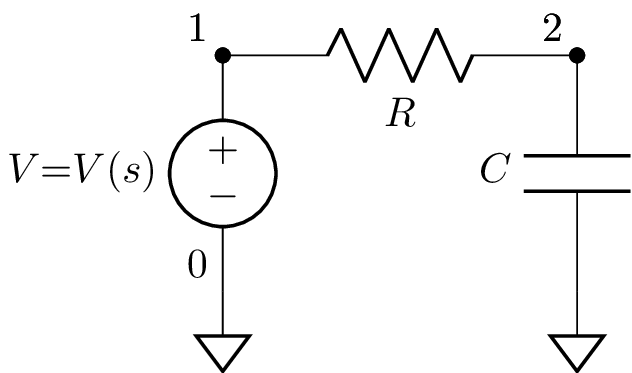
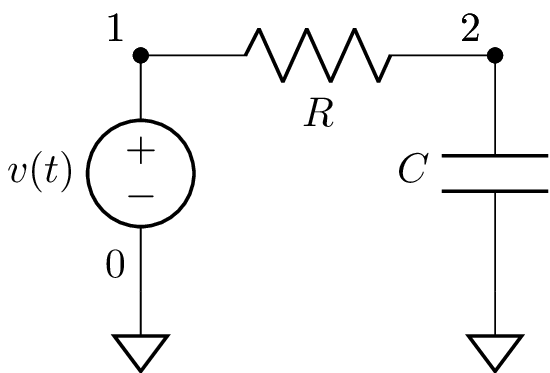
Tweak schematic docs

diff --git a/doc/schematics.rst b/doc/schematics.rst
@@ -10,43 +10,46 @@ Introduction
 
 High quality schematics can be generated from a netlist using
 Circuitikz for LaTeX diagrams.  This is much easier than writing
-Circuitikz commands directly in LaTeX.
+Circuitikz commands directly in LaTeX.  For the fastest way to
+generate a schematic, see :ref:`schtex`.
 
 A semi-automatic component placement is used with hints required to
 designate component orientation and explicit wires to link nodes of
 the same potential but with different coordinates.
 
 Here's an example:
-   >>> from lcapy import Circuit
+
    >>> cct = Circuit("""
-   ... V 1 0 {V(s)}; down
-   ... R 1 2; right
-   ... C 2 _0_2; down
-   ... W 0 _0_2; right""")
+   ... V 1 0 {v(t)}; down
+   ... R 1 2; right=2, i=i(t)
+   ... C 2 0_2; down, v=v_C(t)
+   ... W 0 0_2; right
+   ... ; draw_nodes=connections, label_ids=false, label_nodes=none""")
    >>> cct.draw()
 
 Note, the orientation hints are appended to the netlist strings with a
 semicolon delimiter.  The drawing direction is with respect to the
-first node.  The component W is a wire.  Node names starting with an underscore are not drawn.
+first node.  The component W is a wire.  Node names starting with an underscore are not shown.
 
 The image generated by this netlist is:
 
 .. image:: examples/schematics/schematic.png
-   :width: 4cm
+   :width: 6cm
 
 Here's an example with implicit ground connections added automatically:
-   >>> from lcapy import Circuit
+
    >>> cct = Circuit("""
-   ... V 1 0 {V(s)}; down
-   ... R 1 2; right
+   ... V 1 0 {v(t)}; down
+   ... R 1 2; right=1.5
    ... C 2 0; down
-   ... ; autoground=true""")
+   ... ; autoground=true, label_ids=false""")
    >>> cct.draw()
 
 .. image:: examples/schematics/schematic2.png
    :width: 4cm
 
 Here's another example, this time loading the netlist from a file and saving the created schematic as a PDF file:
+
    >>> from lcapy import Circuit
    >>> cct = Circuit('voltage-divider.sch')
    >>> cct.draw('voltage-divider.pdf')
@@ -65,7 +68,7 @@ Here, P1 defines a port.  This is shown as a pair of open blobs.  The
 wires do not need unique names.
 
 .. image:: examples/schematics/voltage-divider.png
-   :width: 5cm
+   :width: 6cm
 
 
 Netlists
@@ -1665,27 +1668,43 @@ schtex
 `schtex` is a Python script that will generate a schematic from a
 netlist file.  For example, here's how a png file can be generated:
 
-   >>> schtex circuit.sch circuit.png
+.. code:: bash
+
+   $ schtex circuit.sch circuit.png
 
 Similarly, a pdf file is created using:
 
-   >>> schtex circuit.sch circuit.pdf
+.. code:: bash
+
+   $ schtex circuit.sch circuit.pdf
 
 A stand-alone LaTeX file can be obtained using:
 
-   >>> schtex circuit.sch circuit.tex
+.. code:: bash
+
+   $ schtex circuit.sch circuit.tex
 
 This can be converted to a pdf file using pdflatex.
 
 If you wish to include the schematic into a LaTeX file use:
 
-   >>> schtex circuit.sch circuit.pgf
+.. code:: bash
 
-and then include the file with `\\input{circuit.pgf}`.  The pgf format is a vector graphics format using LaTeX macros.  Its advantage is that the schematic fonts match the rest of the document.  To match the fonts for a pdf or png format requires some customisation.
+   $ schtex circuit.sch circuit.pgf
+
+and then include the file with `\\input{circuit.pgf}`.  The pgf format is a vector graphics format using LaTeX macros.  Its advantage is that the schematic fonts match the rest of the document.  To match the fonts for a pdf or png format requires some customisation.   You will need to include the Circuitikz package, see :ref:`latex_schematics`.
 
 `schtex` has many command line options to configure the drawing.  These override the options specified in the netlist file.  For example:
 
-   >>> schtex --draw_nodes=connections --label_nodes=false --cpt-size=1 --help_lines=1 circuit.sch circuit.pdf
+.. code:: bash
+
+   $ schtex --draw_nodes=connections --label_nodes=false --cpt-size=1 --help_lines=1 circuit.sch circuit.pdf
+
+
+Installation
+------------
+
+Note, you will need `schtex` to be on your path.  If installing Lcapy with `pip`, `schtex` is usually installed in `~/.local/bin` or `/usr/local/bin`.
 
 
 Customisation
@@ -1727,25 +1746,31 @@ Node renumbering
 
 One useful schtex option is to renumber the nodes in a netlist.  For example,
 
-   >>> schtex --renumber='10:1, 11:2' infile.sch outfile.sch
+.. code:: bash
+
+   $ schtex --renumber='10:1, 11:2' infile.sch outfile.sch
 
 In this case node 10 is converted to node 1 and node 11 is converted to node 2.
 
 All the nodes can be automatically renumbered using:
 
-   >>> schtex --renumber='all' infile.sch outfile.sch
+.. code:: bash
+
+   $ schtex --renumber='all' infile.sch outfile.sch
 
 This will choose small integers for the node numbers, honoring the provided mapping.  Equipotential nodes will be distinguished using enumerated subscripts, e.g., 1_1, 1_2, 1_3 etc.
 
 
+.. _latex_schematics:
+
 Schematics in LaTeX
-===================
+-------------------
 
 Here's an example of how to include an Lcapy schematic in a LaTeX document.
 
 .. literalinclude:: examples/schematics/pic4-demo.tex
 
-A PDF file can be produced using:
+If this file is called `pic4-demo.tex`, a PDF file can be produced using:
 
 .. code:: bash
 

diff --git a/doc/install.rst b/doc/install.rst
@@ -39,6 +39,8 @@ Installation for Linux
 
     $ sudo apt install ghostscript texlive-latex-extra cm-super
 
+If you wish to use :ref:`schtex` ensure that `~/.local/bin` is on your path.
+
 
 Installation for macOS
 ======================
@@ -67,7 +69,7 @@ or to minimise disk space, install a smaller set of LaTeX packages using:
 Installation for Windows
 ========================
 
-1. Lcapy (and its Python dependencies) can be installed using
+1. Lcapy (and its Python dependencies) can be installed using:
 
 .. code-block:: console
 
